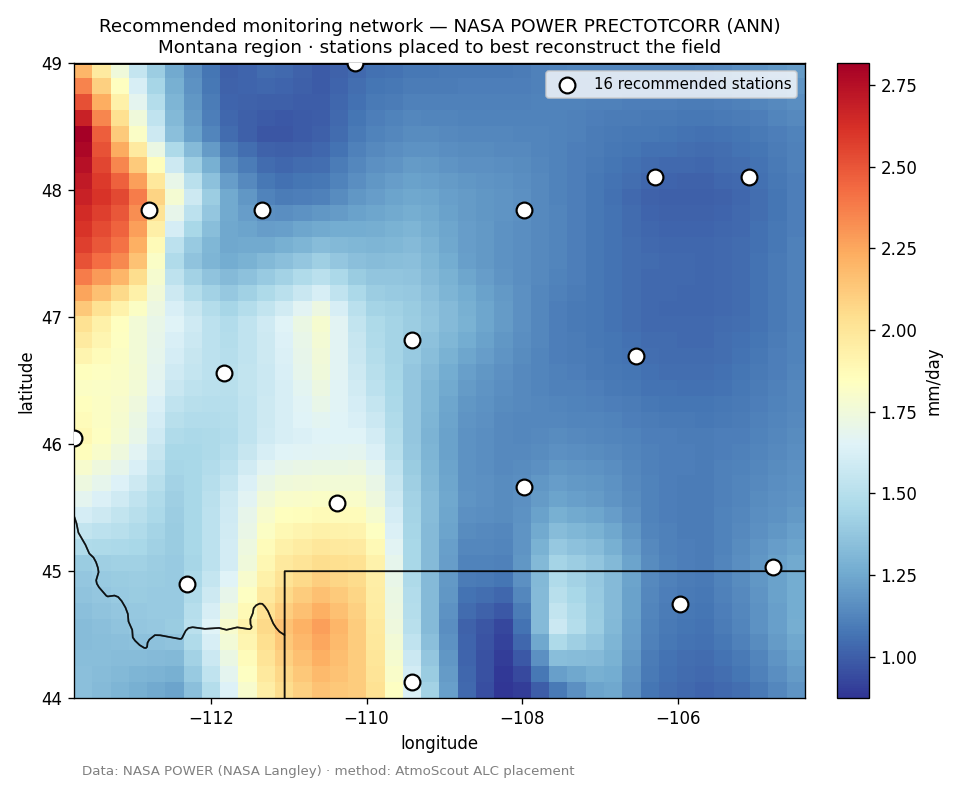
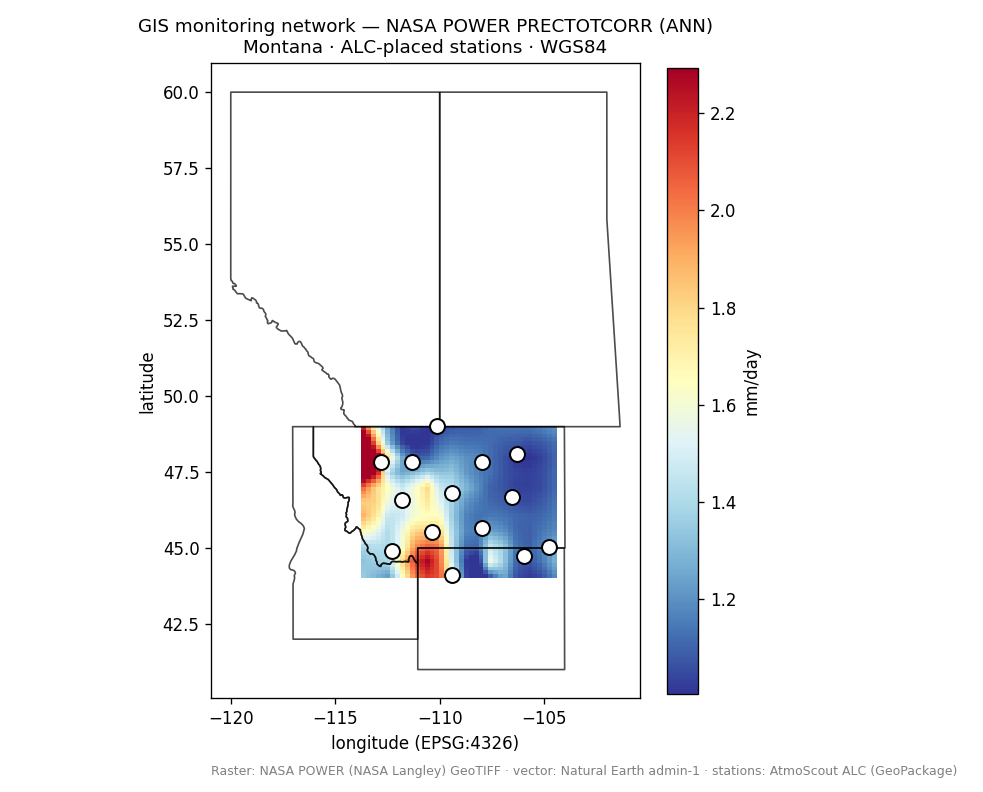
AtmoScout site: upgrade monitoring map to real GIS version (geopandas/rasterio, GeoTIFF+GeoPackage)

diff --git a/src/content/projects/atmoscout.md b/src/content/projects/atmoscout.md
@@ -41,10 +41,13 @@ myself, ensemble-sensitivity targeting), and every result is reproducible from t
 repo. Built fast, kept honest — including the experiments that didn't flatter the
 idea until I fixed them.
 
-**Applied, with real NASA data.** The same "where do you put limited sensors?"
-engine answers a real decision: I pull **NASA POWER** climatology (a NASA Langley
-product) and design an optimal **monitoring network** for a Montana region — the
-kind of thing an under-resourced conservation district actually needs. Real
-data → recommended stations on a map → a decision brief.
+**Applied, with real NASA data + a real GIS workflow.** The same "where do you put
+limited sensors?" engine answers a real decision: I pull **NASA POWER** climatology
+(a NASA Langley product) and design an optimal **monitoring network** for a Montana
+region — the kind of thing an under-resourced conservation district actually needs.
+Built with an actual geospatial stack (**geopandas + rasterio + pyproj**), it ships
+real GIS *end products*: a georeferenced **GeoTIFF** of the precipitation field
+(EPSG:4326), a **GeoPackage** of the recommended stations, and a CRS-aware map with
+state boundaries.
 
-![Recommended monitoring network over Montana — NASA POWER annual precipitation, with the stations placed to best reconstruct the regional field](/atmoscout-monitoring.png)
+![GIS monitoring network over Montana — NASA POWER annual precipitation as a georeferenced raster, with state boundaries and ALC-placed stations in WGS84](/atmoscout-monitoring.png)